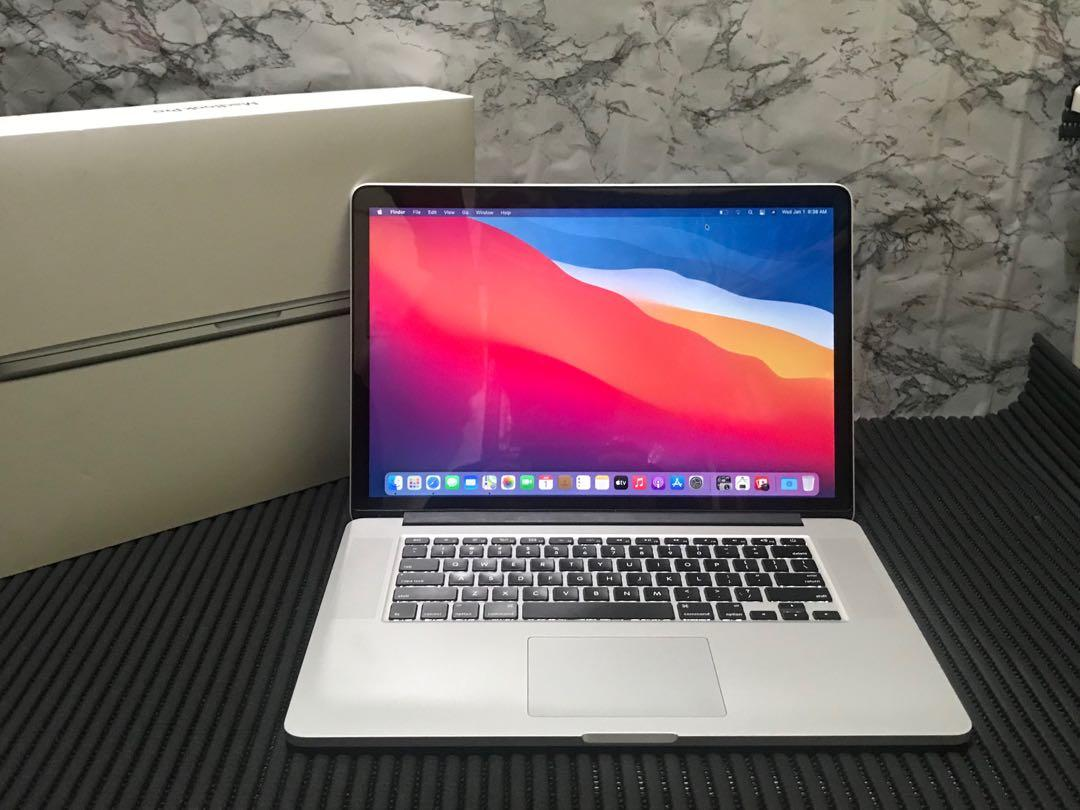
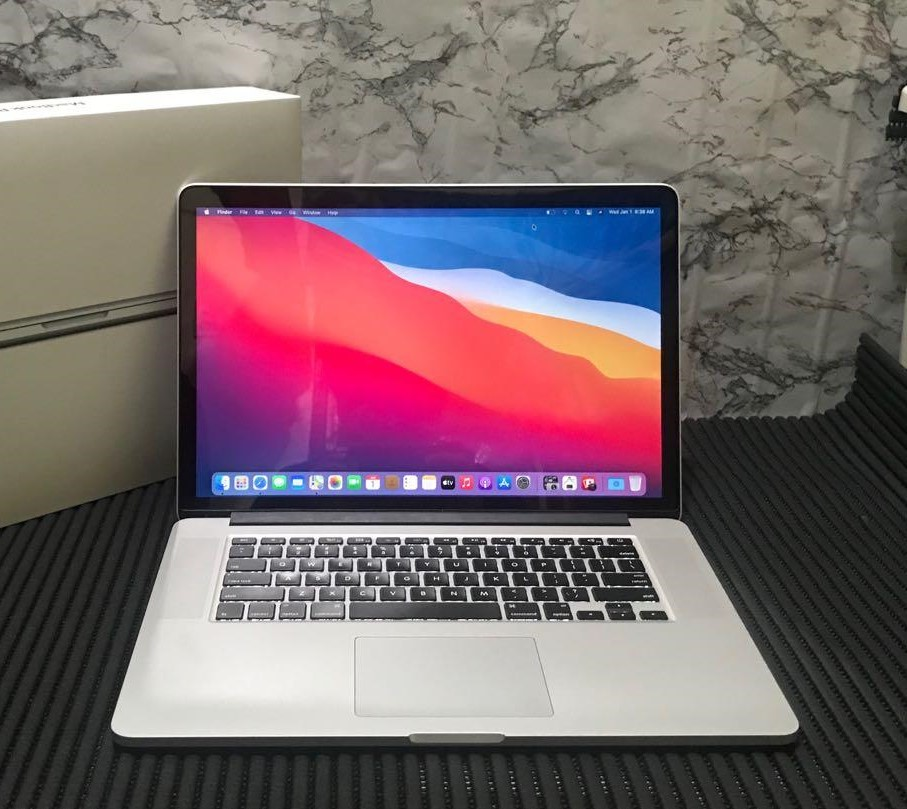
changed product img to div with bg url

diff --git a/public/css/home.css b/public/css/home.css
@@ -107,11 +107,17 @@ body{
 }
 .main-img{
     margin: 10px 0px;
+    background-size: cover;
+    background-position:center center; 
+    background-repeat:no-repeat; 
+    width: 250px;
+    height: 220px;
 
 }
 .product-img{
-    width:100%;
+    width: 250px;
     height: 220px;
+    
 }
 
 .product-details p{

diff --git a/app/Controllers/Home.php b/app/Controllers/Home.php
@@ -1,14 +1,41 @@
 <?php
 
 namespace App\Controllers;
+use App\Models\UserModel;
+use App\Models\ItemModel;
+use App\Models\CategoryModel;
 
 class Home extends BaseController
 {
 	/**
 	 * METHOD: GET
 	*/
+
+	
+	protected $userModel;
+	protected $itemModel;
+	protected $categoryModel;
+
+	public function __construct() {
+		$this->userModel = new UserModel();
+		$this->itemModel = new ItemModel();
+		$this->categoryModel = new CategoryModel();
+	}
+
 	public function index()
 	{
 		return view('pages/home');
+	}
+
+
+	public function searchItemsByName(){
+
+	}
+	public function searchItemsByCategory(){
+
+	}
+
+	public function getLatestItems(){
+
 	}
 }

diff --git a/app/Views/components/home/product.php b/app/Views/components/home/product.php
@@ -6,8 +6,8 @@
             <h6>1 minute ago</h6>
         </div>
     </div>
-    <div class="main-img">
-        <img src="<?= base_url('assets/home/product-img-sample.jpg') ?>" alt="" class="product-img">
+    <div class="main-img" style="background-image:url(<?= base_url('assets/home/product-img-sample.jpg') ?>); ">
+      
     </div>
     <div class="product-details">
         <p class="product-name">Carrot Headband</p>
@@ -16,3 +16,4 @@
         <div class="new-tag">New</div>
     </div>
 </div>
+
